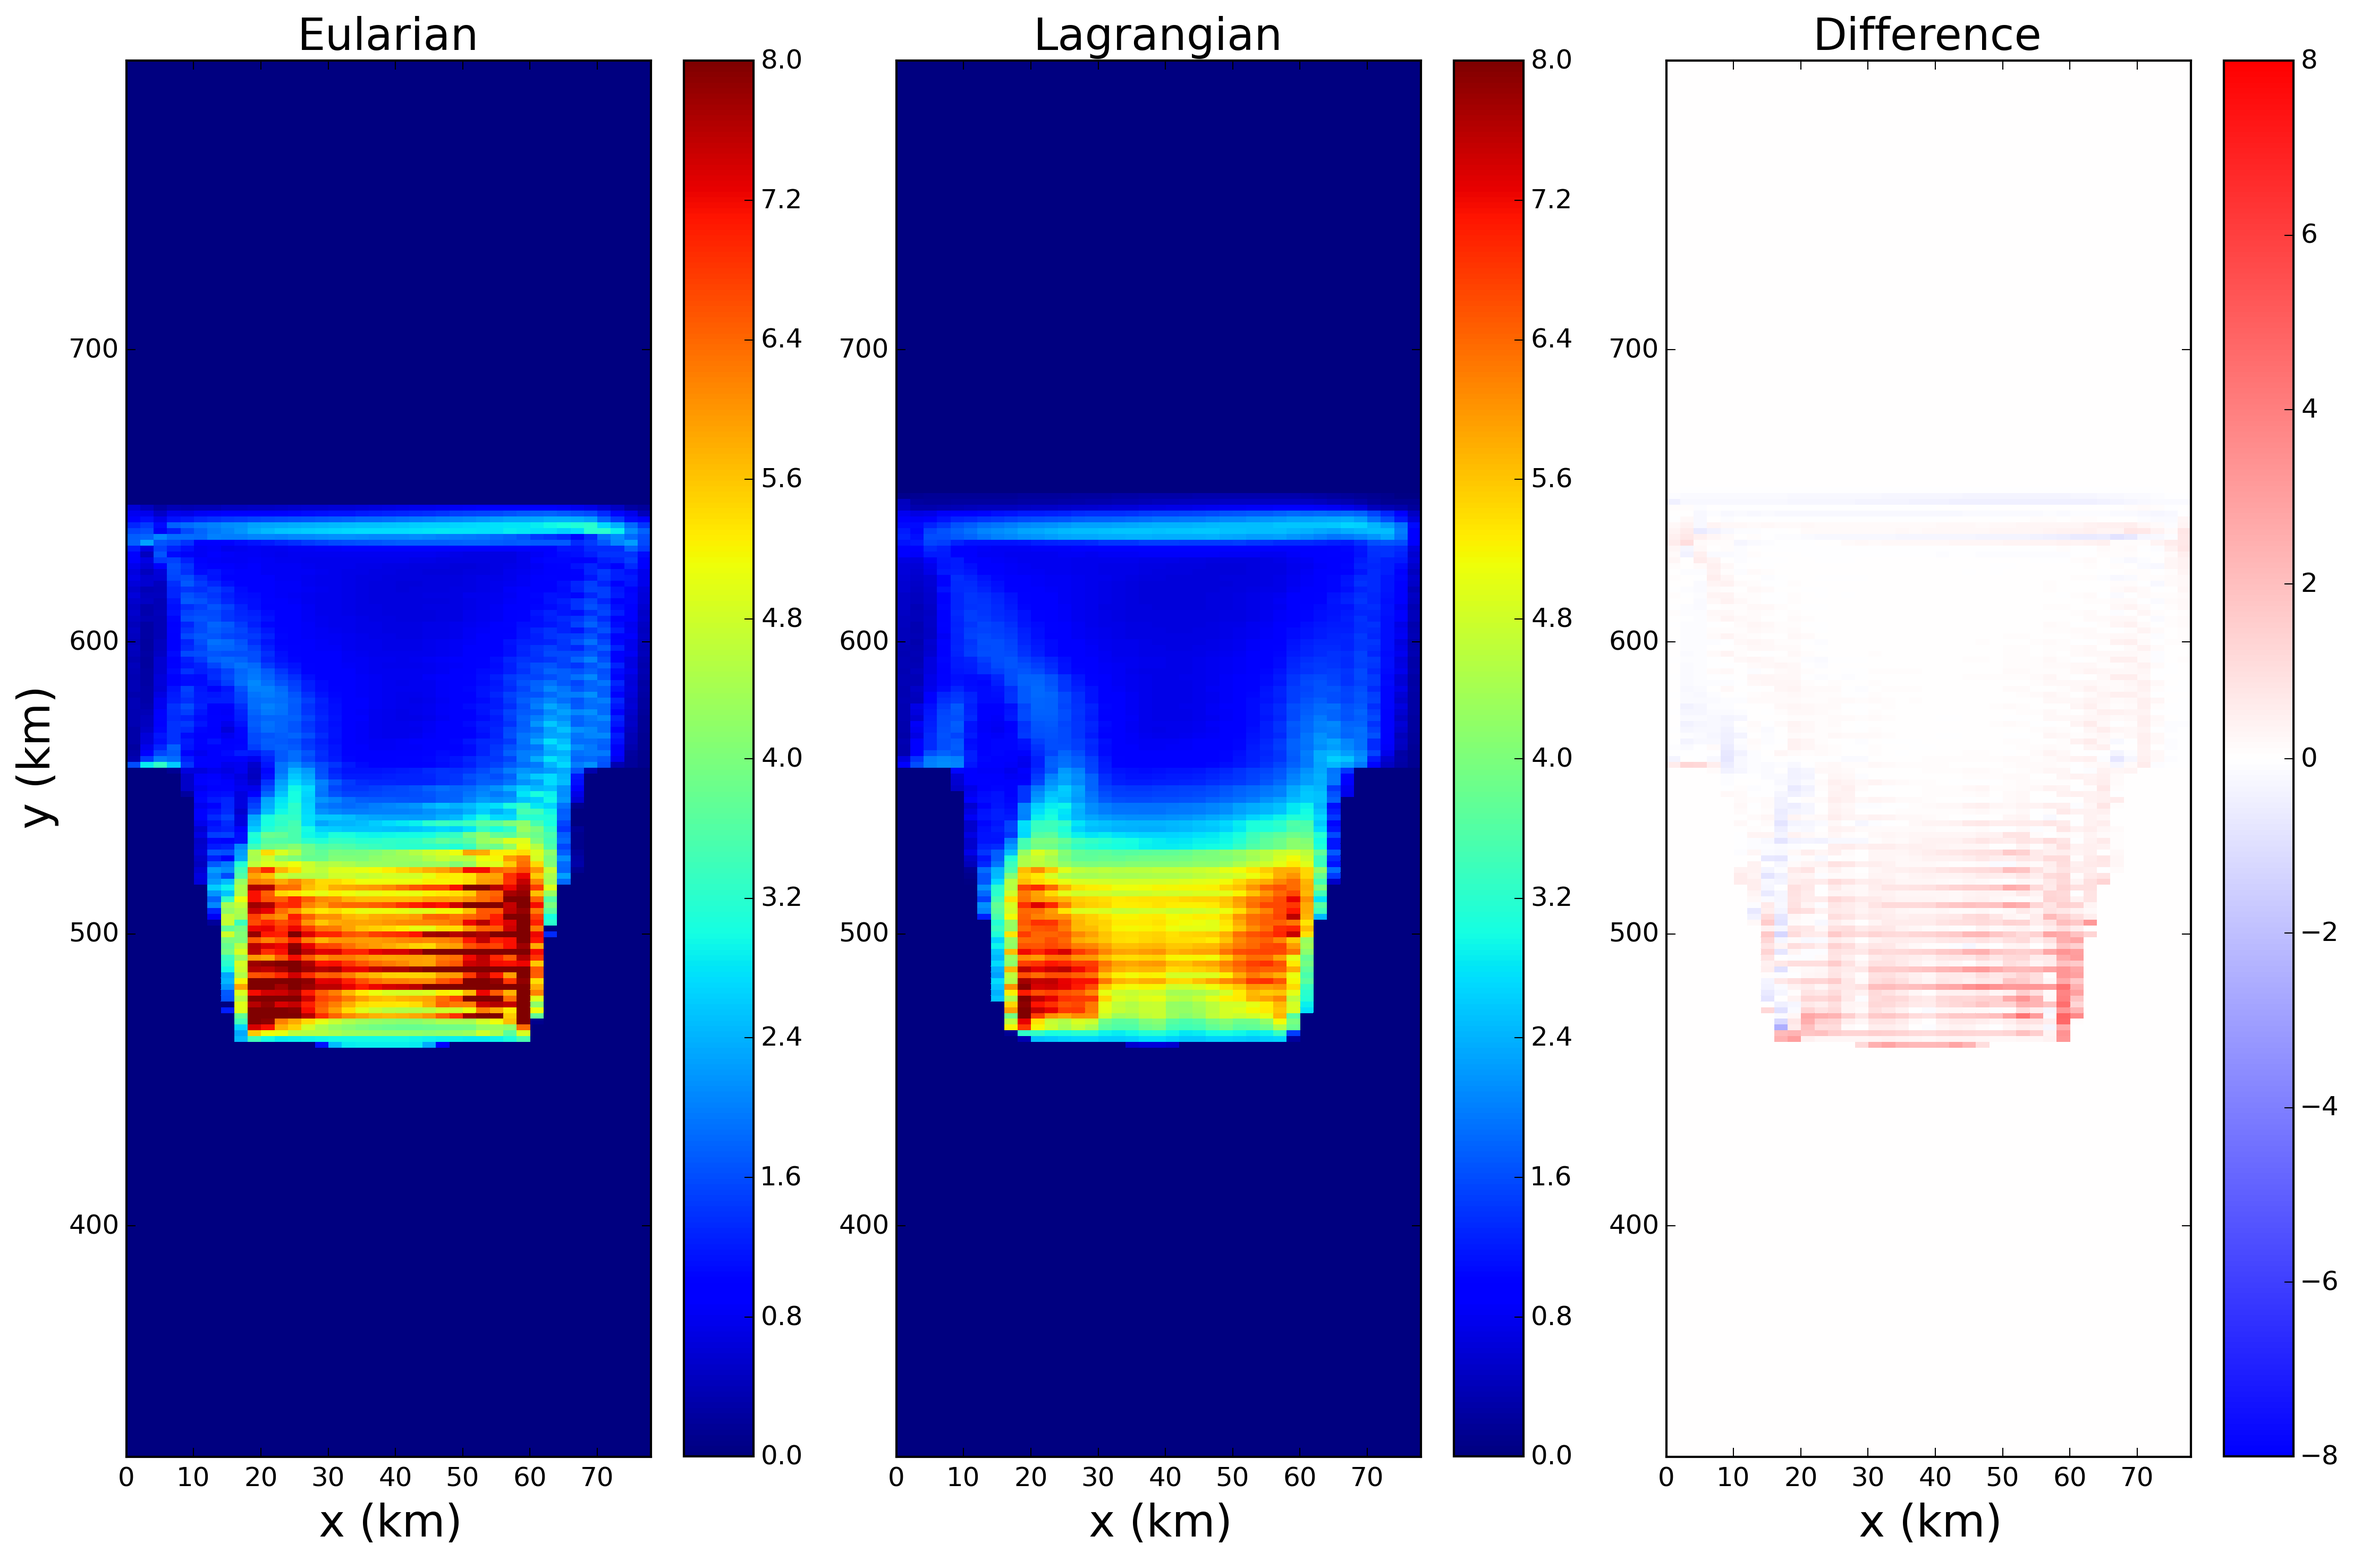
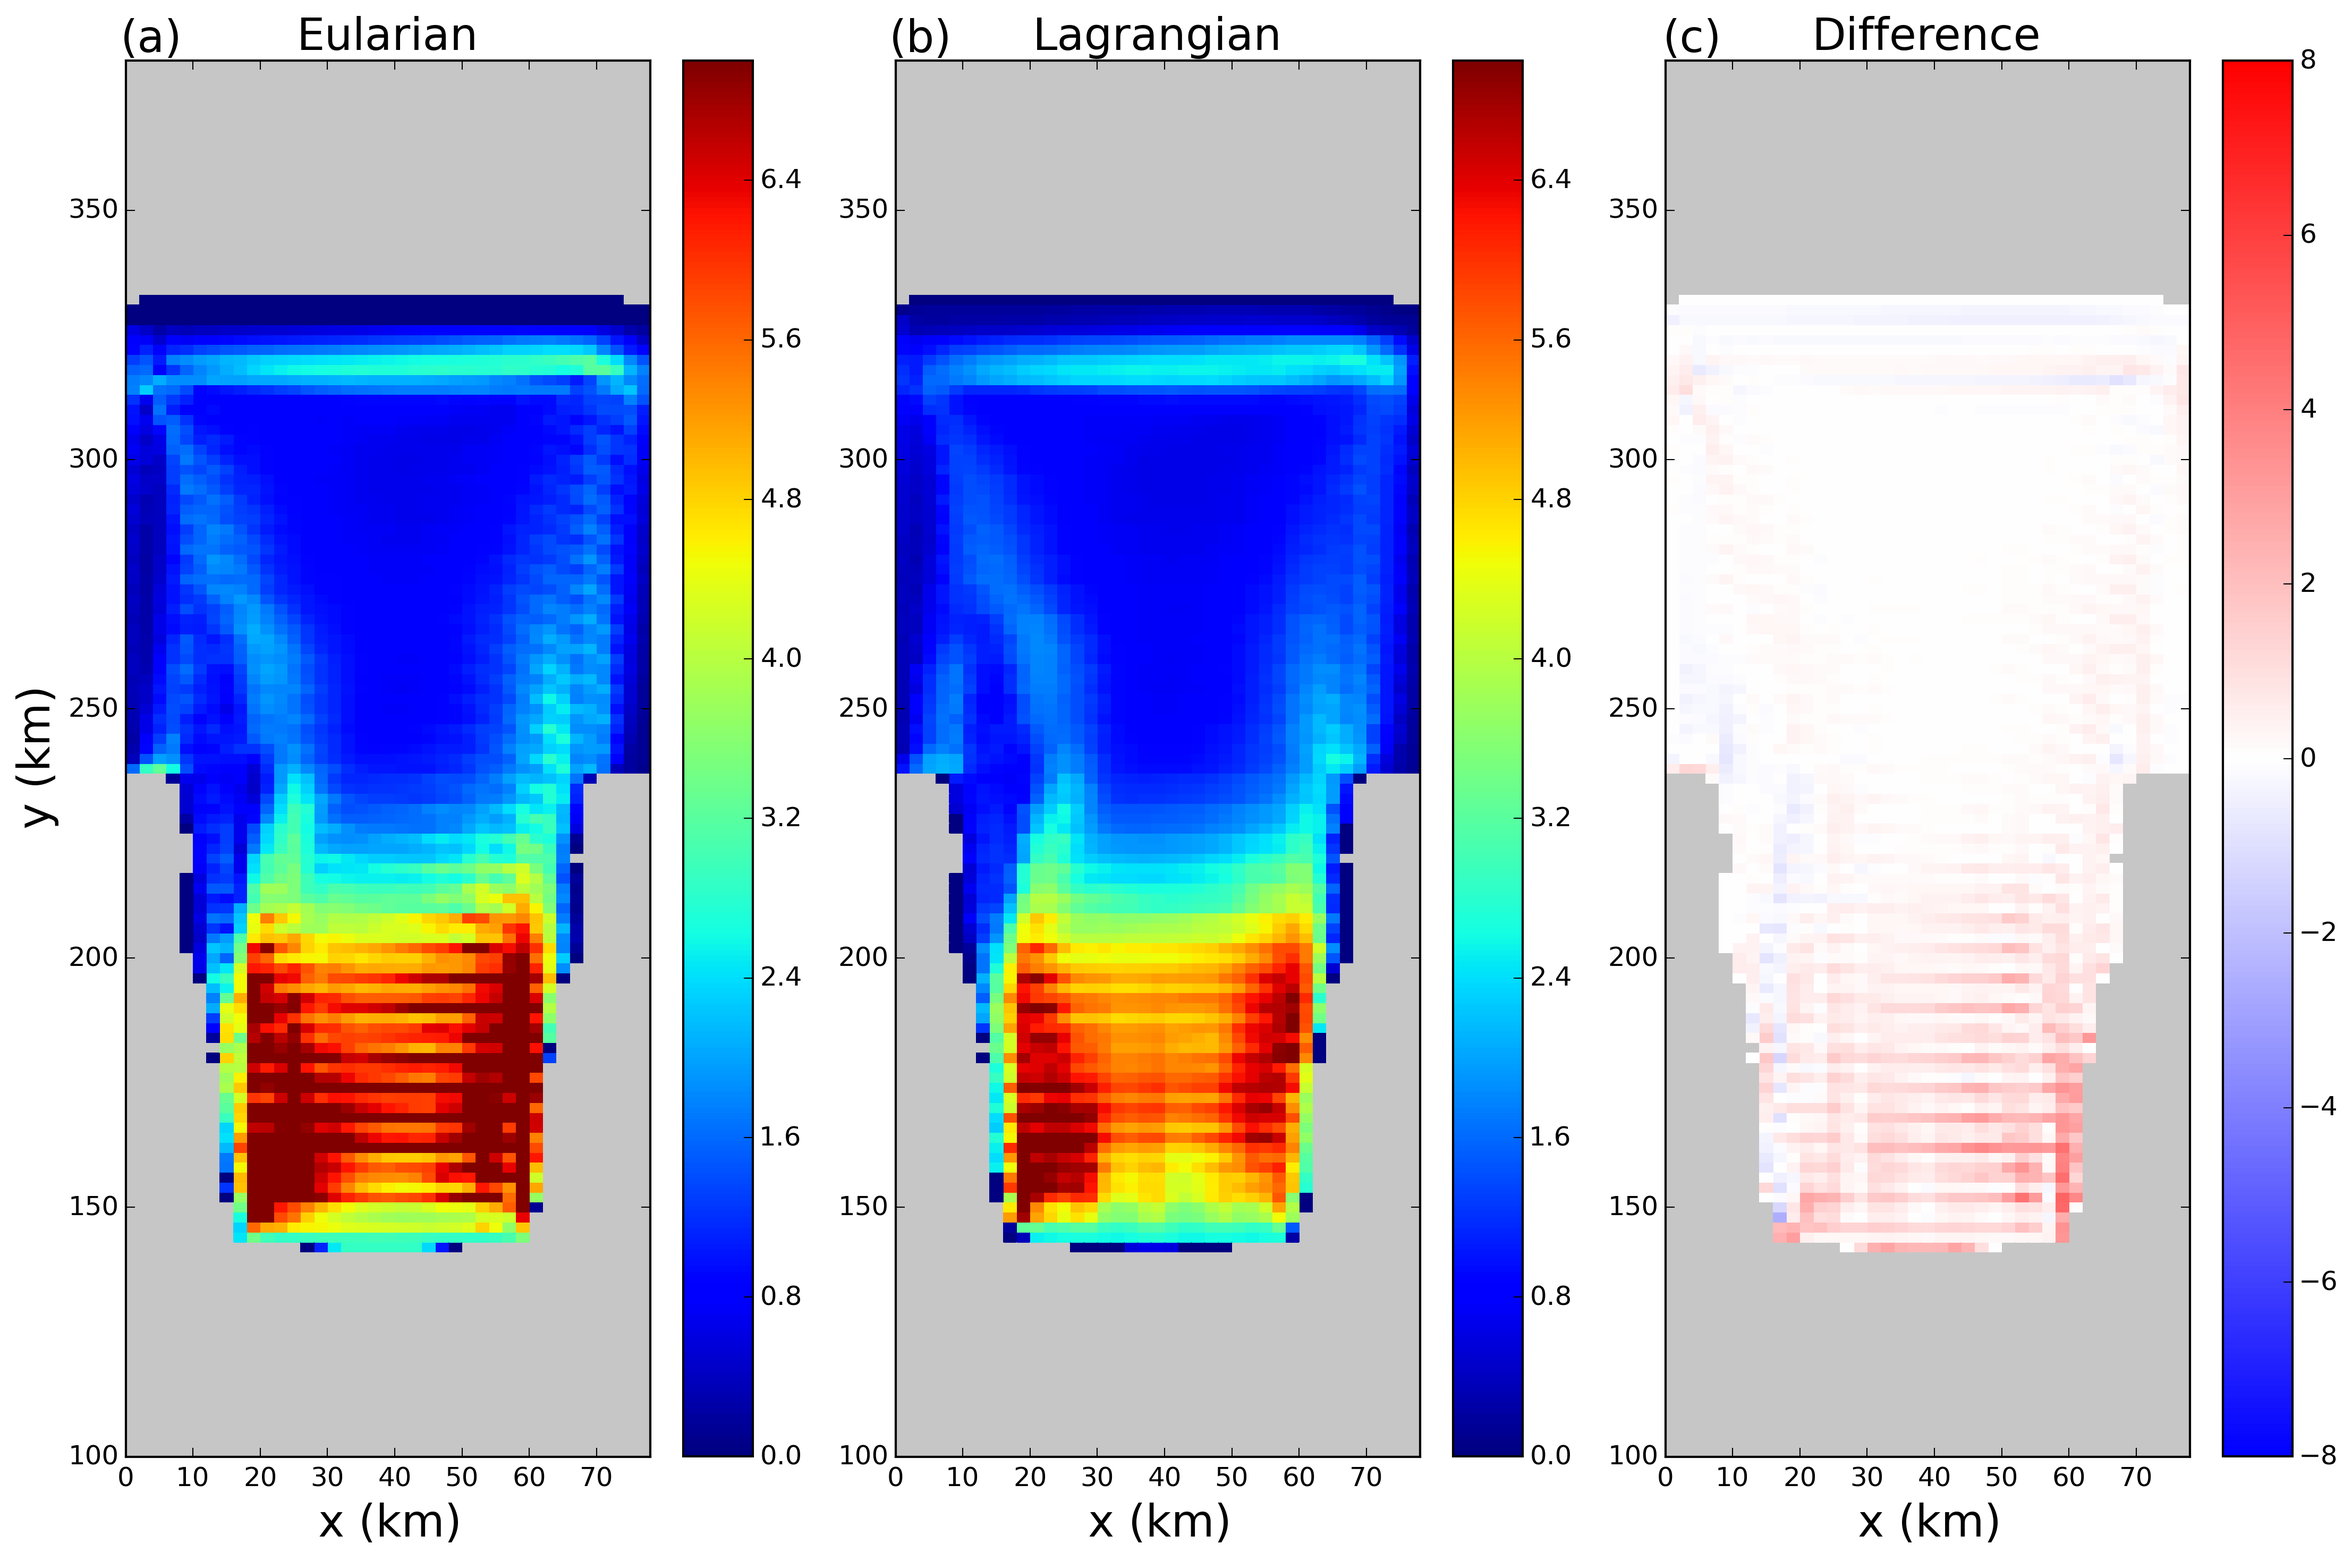
More figure updates

diff --git a/static_shelf_comparison.py b/static_shelf_comparison.py
@@ -57,6 +57,14 @@ def parseCommandLine():
 	parser.add_argument('-only_shelf_ALE', type='bool', default=False,
 		                        help=''' When true, Figures compares Shelf ALE and Layer (must be used with use_ALE=True ''')
 
+
+	parser.add_argument('-ylim_min', type=float, default=0.0,
+		                        help='''Minimum y used for plotting (only applies to horizontal sections)''')
+
+	parser.add_argument('-ylim_max', type=float, default=480.0,
+		                        help='''Minimum y used for plotting (only applies to horizontal sections)''')
+
+
 	optCmdLineArgs = parser.parse_args()
 	return optCmdLineArgs
 
@@ -579,6 +587,10 @@ def main(args):
 	#fig = plt.figure(facecolor='black')
 	ax = fig.add_subplot(111,axisbg='gray')
 
+	#Scale
+	ylim_min=args.ylim_min
+	ylim_max=args.ylim_max
+
 	######################################################################################################################
 	################################  Plotting melt comparison  ##########################################################
 	######################################################################################################################
@@ -586,22 +598,48 @@ def main(args):
 	if fields_to_compare=='plot_melt_comparison':
 		vmin=0.0  ; vmax=3.0  ; vdiff=3.0
 		if use_ALE is True:
-			vmin=0.0  ; vmax=8.0  ; vdiff=8.0
+			vmin=0.0  ; vmax=7.0  ; vdiff=8.0
 		flipped=False
 		field='melt'
 
 		data1=load_and_compress_data(Shelf_ocean_file,field='melt',time_slice='mean',time_slice_num=-1,rotated=rotated)
 		data2=load_and_compress_data(Berg_iceberg_file,field='melt_m_per_year',time_slice='mean',time_slice_num=-1,rotated=rotated) #field name is difference since it comes from a diff file.
 
+		#Masking out ocean and grounded ice
+		mask_open_ocean=True
+		if mask_open_ocean == True:
+			mask_ocean_using_bergs=True
+			if mask_ocean_using_bergs is True:
+				ice_data=load_and_compress_data(Berg_iceberg_file,field='spread_area',time_slice='',time_slice_num=1,\
+							rotated=rotated,direction='xy',dir_slice=None, dir_slice_num=1)
+				data1=mask_ocean(data1,ice_data)
+				data2=mask_ocean(data2,ice_data)
+			else:
+				data1=mask_ocean(data1,ice_base)
+				data2=mask_ocean(data2,ice_base)
+		mask_grounded=True
+		if mask_grounded == True:
+			data1=mask_grounded_ice(data1,depth,ice_base)
+			data2=mask_grounded_ice(data2,depth,ice_base)
+
 		data1=mask_ocean(data1,shelf_area)
 		data2=mask_ocean(data2,shelf_area)
 		#data3=mask_ocean(data1-data2,shelf_area)
-		plt.subplot(1,3,1)
-		plot_data_field(data1,x,y,vmin,vmax,flipped,colorbar=True,cmap='jet',title='Eularian',xlabel='x (km)',ylabel='y (km)')	
-		plt.subplot(1,3,2)
-		plot_data_field(data2,x,y,vmin,vmax,flipped,colorbar=True,cmap='jet',title='Lagrangian',xlabel='x (km)',ylabel='')	
-		plt.subplot(1,3,3)
-		plot_data_field(data1-data2,x,y,vmin=-vdiff,vmax=vdiff,flipped=flipped,colorbar=True,cmap='bwr',title='Difference',xlabel='x (km)',ylabel='')	
+		ax=plt.subplot(1,3,1)
+		plot_data_field((ice_base*0),x,y,-5.0, 10.0,flipped,colorbar=False,cmap='Greys',title=title,xlabel='x (km)',ylabel='',ylim_min=ylim_min, \
+				ylim_max=ylim_max,return_handle=False)
+		plot_data_field(data1,x,y,vmin,vmax,flipped,colorbar=True,cmap='jet',title='Eularian',xlabel='x (km)',ylabel='y (km)', ylim_min=ylim_min, ylim_max=ylim_max)	
+		text(0.1,1,letter_labels[0], ha='right', va='bottom',transform=ax.transAxes,fontsize=20)
+		ax=plt.subplot(1,3,2)
+		plot_data_field((ice_base*0),x,y,-5.0, 10.0,flipped,colorbar=False,cmap='Greys',title=title,xlabel='x (km)',ylabel='',ylim_min=ylim_min, \
+				ylim_max=ylim_max,return_handle=False)
+		plot_data_field(data2,x,y,vmin,vmax,flipped,colorbar=True,cmap='jet',title='Lagrangian',xlabel='x (km)',ylabel='', ylim_min=ylim_min, ylim_max=ylim_max)
+		text(0.1,1,letter_labels[1], ha='right', va='bottom',transform=ax.transAxes,fontsize=20)
+		ax=plt.subplot(1,3,3)
+		plot_data_field((ice_base*0),x,y,-5.0, 10.0,flipped,colorbar=False,cmap='Greys',title=title,xlabel='x (km)',ylabel='',ylim_min=ylim_min, \
+				ylim_max=ylim_max,return_handle=False)
+		plot_data_field(data1-data2,x,y,vmin=-vdiff,vmax=vdiff,flipped=flipped,colorbar=True,cmap='bwr',title='Difference',xlabel='x (km)',ylabel='', ylim_min=ylim_min, ylim_max=ylim_max)
+		text(0.1,1,letter_labels[2], ha='right', va='bottom',transform=ax.transAxes,fontsize=20)
 
 	######################data###############################################################################################
 	################################  Plotting Bt stream function ########################################################
@@ -617,23 +655,37 @@ def main(args):
 
 		data1=calculate_barotropic_streamfunction(Shelf_ocean_file,depth,ice_base,time_slice='mean',time_slice_num=-1,rotated=rotated)
 		data2=calculate_barotropic_streamfunction(Berg_ocean_file,depth,ice_base,time_slice='mean',time_slice_num=-1,rotated=rotated)
+
+		#Masking out grounded ice
+		mask_grounded=True
+		if mask_grounded == True:
+			data1=mask_grounded_ice(data1,depth,ice_base)
+			data2=mask_grounded_ice(data2,depth,ice_base)
+
+		#Plotting everyone
 		ax=plt.subplot(1,3,1)
+		plot_data_field((ice_base*0),x,y,-5.0, 10.0,flipped,colorbar=False,cmap='Greys',title=title,xlabel='x (km)',ylabel='',ylim_min=ylim_min, \
+				ylim_max=ylim_max,return_handle=False)
 		plot_data_field(data2,x,y,vmin,vmax,flipped,colorbar=True,cmap=cmap,title='Lagrangian',\
-				xlabel='x (km)',ylabel='y (km)',colorbar_shrink=0.5,colorbar_units='(Sv)')	
+				xlabel='x (km)',ylabel='y (km)',colorbar_shrink=0.5,colorbar_units='(Sv)', ylim_min=ylim_min, ylim_max=ylim_max)	
                 plt.plot(xvec,grounding_line, linewidth=3.0,color='black')
                 plt.plot(xvec,ice_front, linewidth=3.0,color='black')
 		text(0.1,1,letter_labels[0], ha='right', va='bottom',transform=ax.transAxes,fontsize=20)
 		
 		ax=plt.subplot(1,3,2)
+		plot_data_field((ice_base*0),x,y,-5.0, 10.0,flipped,colorbar=False,cmap='Greys',title=title,xlabel='x (km)',ylabel='',ylim_min=ylim_min, \
+				ylim_max=ylim_max,return_handle=False)
 		plot_data_field(data1,x,y,vmin,vmax,flipped,colorbar=True,cmap=cmap,title='Eularian',\
-				xlabel='x (km)',ylabel='',colorbar_shrink=0.5,colorbar_units='(Sv)')	
+				xlabel='x (km)',ylabel='',colorbar_shrink=0.5,colorbar_units='(Sv)', ylim_min=ylim_min, ylim_max=ylim_max)	
                 plt.plot(xvec,grounding_line, linewidth=3.0,color='black')
                 plt.plot(xvec,ice_front, linewidth=3.0,color='black')
 		text(0.1,1,letter_labels[1], ha='right', va='bottom',transform=ax.transAxes,fontsize=20)
 		
 		ax=plt.subplot(1,3,3)
+		plot_data_field((ice_base*0),x,y,-5.0, 10.0,flipped,colorbar=False,cmap='Greys',title=title,xlabel='x (km)',ylabel='',ylim_min=ylim_min, \
+				ylim_max=ylim_max,return_handle=False)
 		plot_data_field(data1-data2,x,y,-vmax, vmax, flipped,colorbar=True,cmap='bwr',title='Difference',\
-				xlabel='x (km)',ylabel='',colorbar_shrink=0.5,colorbar_units='(Sv)')	
+				xlabel='x (km)',ylabel='',colorbar_shrink=0.5,colorbar_units='(Sv)', ylim_min=ylim_min, ylim_max=ylim_max)	
                 plt.plot(xvec,grounding_line, linewidth=3.0,color='black')
                 plt.plot(xvec,ice_front, linewidth=3.0,color='black')
 		text(0.1,1,letter_labels[2], ha='right', va='bottom',transform=ax.transAxes,fontsize=20)
